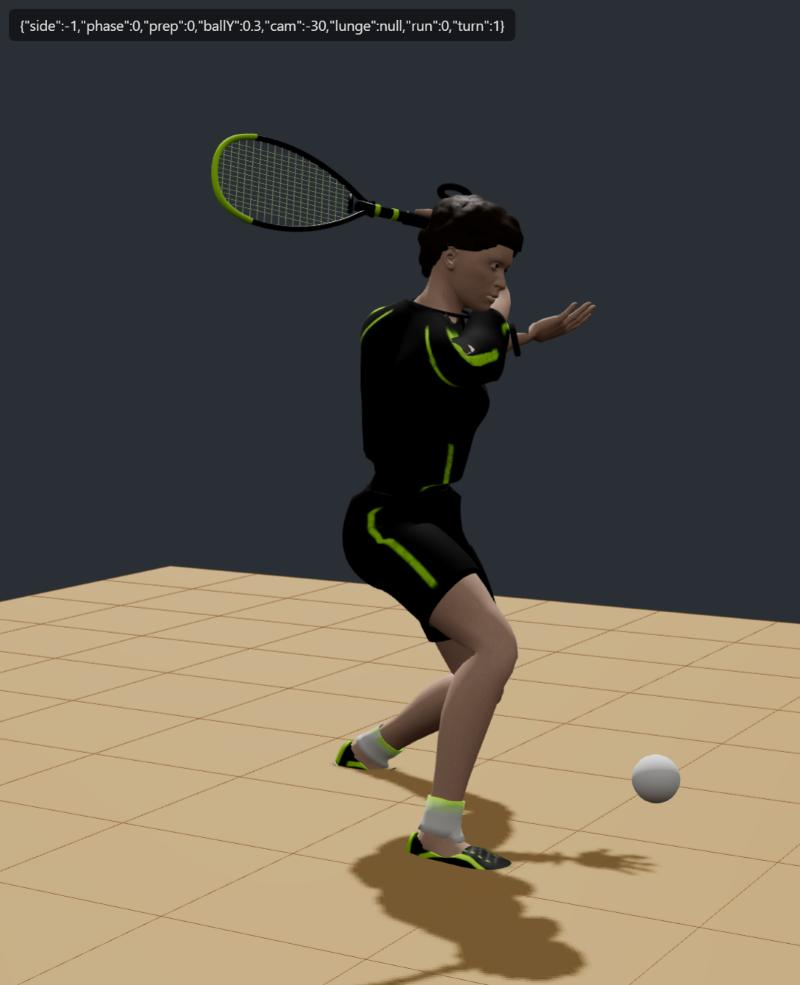
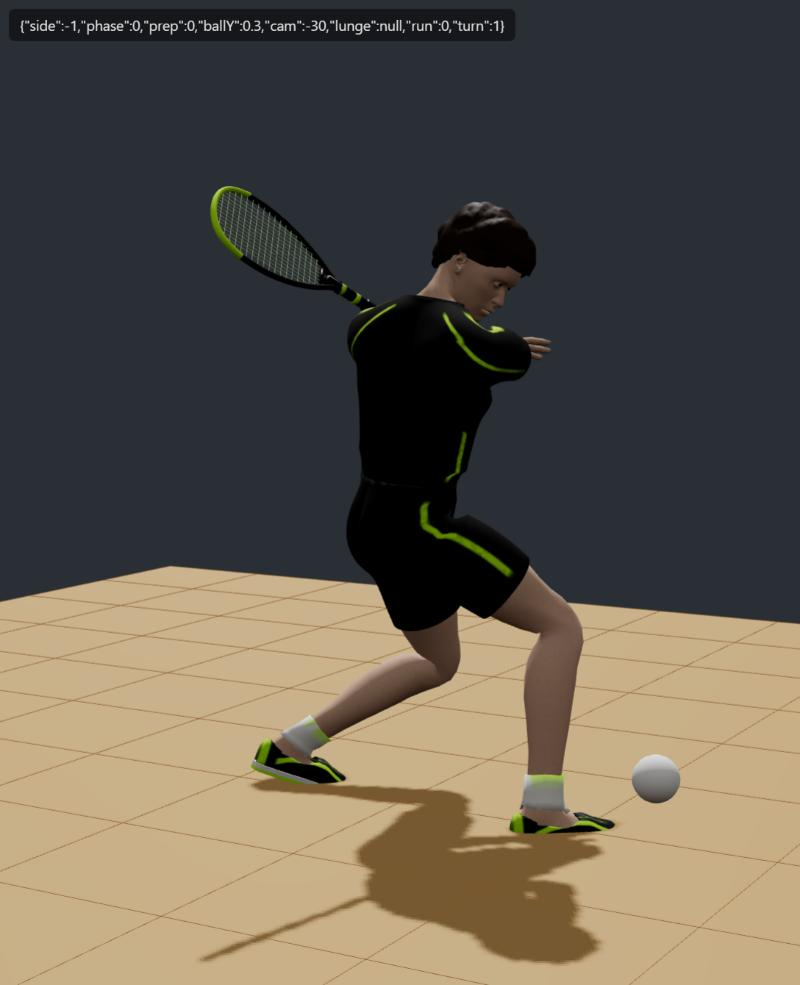
Pose review fixes: feet on the floor, head on the ball, backhand prep, stable palms, no wristbands

Changed region(s): [[0.25, 0.1218, 0.8125, 1.0], [0.25, 0.9442, 0.3438, 0.9746]]

diff --git a/src/render3d/player3d.js b/src/render3d/player3d.js
@@ -46,9 +46,9 @@ const STANCE_HALF = 0.14;
 /**
  * Default rig dimensions (m): the procedural body. A skinned character
  * passes its own bone lengths so the leg IK plants its feet correctly.
- * @typedef {{hipX:number, hipsY:number, thigh:number, shin:number, ankle:number}} RigDims
+ * @typedef {{hipX:number, hipsY:number, thigh:number, shin:number, ankle:number, toeLen:number}} RigDims
  */
-export const DEFAULT_DIMS = Object.freeze({ hipX: 0.1, hipsY: 0.95, thigh: THIGH, shin: SHIN, ankle: 0.035 });
+export const DEFAULT_DIMS = Object.freeze({ hipX: 0.1, hipsY: 0.95, thigh: THIGH, shin: SHIN, ankle: 0.035, toeLen: 0.12 });
 
 /**
  * Stroke keyframes (forehand, right-handed). Torso yaw frame: x right, y up,
@@ -77,15 +77,16 @@ function mirror(k) {
   const prep = k.t === 0;
   return {
     t: k.t,
-    // Preparation (backhand frames): body faces the left wall, elbow bent across the chest at
-    // shoulder height, racket head up and back behind the head, free arm bent in front.
-    E: prep ? v3(-0.6, 0.3, -0.62) : m(k.E),
-    W: prep ? v3(-0.35, 0.8, 0.22) : m(k.W),
-    R: prep ? v3(-0.1, 0.3, 0.95) : m(k.R),
-    N: prep ? v3(0.75, 0.2, -0.6) : m(k.N),
+    // Preparation (backhand frames): hips turned 135° toward the left wall (45° past side-on) with
+    // the shoulders a little further, elbow pointing at the front wall across the chest, racket
+    // hand beside the left shoulder clear of the head, racket head up and back, free arm in front.
+    E: prep ? v3(-0.45, -0.12, -0.88) : m(k.E),
+    W: prep ? v3(-0.85, -0.05, 0.5) : m(k.W),
+    R: prep ? v3(-0.25, 0.5, 0.85) : m(k.R),
+    N: prep ? v3(0.8, 0.3, -0.4) : m(k.N),
     LE: prep ? v3(-0.5, -0.5, -0.7) : m(k.LE),
     LW: prep ? v3(0.4, 0.2, -0.85) : m(k.LW),
-    yaw: -k.yaw, shoulders: prep ? 1.07 : -k.shoulders, pitch: k.pitch, drop: k.drop, wide: k.wide, knee: k.knee, step: k.step,
+    yaw: prep ? 2.36 : -k.yaw, shoulders: prep ? 0.55 : -k.shoulders, pitch: k.pitch, drop: k.drop, wide: k.wide, knee: k.knee, step: k.step,
   };
 }
 const BACKHAND = FOREHAND.map(mirror);
@@ -158,6 +159,7 @@ export class PlayerModel {
 
     this._q = new THREE.Quaternion();
     this._q2 = new THREE.Quaternion();
+    this._wr = new THREE.Vector3();
     this._m = new THREE.Matrix4();
     this._x = new THREE.Vector3();
     this._y = new THREE.Vector3();
@@ -183,7 +185,14 @@ export class PlayerModel {
     const ax = this._ax;
     E = this._e.copy(E).applyAxisAngle(ax, pitch);
     W = this._w.copy(W).applyAxisAngle(ax, pitch);
-    if (R) { R = this._r.copy(R).applyAxisAngle(ax, pitch); N = this._n.copy(N).applyAxisAngle(ax, pitch); }
+    if (R) {
+      R = this._r.copy(R).applyAxisAngle(ax, pitch);
+      N = this._n.copy(N).applyAxisAngle(ax, pitch);
+      // The strings are the same on both faces, but the palm is not: a right hand holding the racket
+      // has its palm on the side of -(forearm x racket), so keep N (the palm side) there and never
+      // let a keyframe turn the hand over.
+      if (this._wr.crossVectors(W, R).dot(N) > 0) N.negate();
+    }
     const qS = this._dirQuat(E, arm.shoulder.quaternion);
     const qW = this._dirQuat(W, this._q);
     arm.elbow.quaternion.copy(qS).invert().multiply(qW);
@@ -411,11 +420,23 @@ export class PlayerModel {
     this.torso.rotation.y = pose.shoulders;
     this.torso.rotation.x = -(pose.pitch + fwd * 0.2 + bwd * 0.05 + lunge * 0.12 + lowBall * 0.2);
     this.torso.rotation.z = -lat * 0.18 - this.lungeX * lunge * 0.15;
-    this.head.rotation.x = -this.torso.rotation.x * 0.85 - (ball.inPlay ? 0.4 * clamp((1.3 - h), 0, 1) : 0);
-    // Eyes on the ball when it is ours; while waiting on the T, watch the opponent to read the shot.
+    // Eyes on the ball when it is ours, before and through the stroke; while waiting on the T, watch the
+    // opponent to read the shot. Yaw then pitch from the eyes toward the target (the eyes do the rest).
+    this.head.rotation.order = 'YXZ';
     const watch = ball.inPlay && !myTurn && opponent && swingT < 0 ? opponent : ball;
-    const lookYaw = Math.atan2(-(watch.x - p.x), -(watch.z - p.z) || 0.01);
-    this.head.rotation.y = ball.inPlay ? clamp(lookYaw * (watch === ball ? 0.5 : 0.85) - this.facing - this.torso.rotation.y, -1.0, 1.0) : 0;
+    if (ball.inPlay) {
+      const dx = watch.x - p.x, dz = watch.z - p.z;
+      const eyeY = this.hips.position.y + 0.62;
+      const dy = watch === ball ? ball.y - eyeY : 0;
+      const horiz = Math.hypot(dx, dz) || 0.01;
+      let relYaw = Math.atan2(-dx, -dz) - this.facing - this.torso.rotation.y;
+      relYaw = Math.atan2(Math.sin(relYaw), Math.cos(relYaw));
+      this.head.rotation.y = clamp(relYaw * (watch === ball ? 0.9 : 0.85), -1.25, 1.25);
+      this.head.rotation.x = clamp(-this.torso.rotation.x * 0.85 + Math.atan2(dy, horiz) * 0.9, -0.95, 0.6);
+    } else {
+      this.head.rotation.y = 0;
+      this.head.rotation.x = -this.torso.rotation.x * 0.85;
+    }
 
     // ------------------------------------------------ legs (IK to the feet)
     const cosF = Math.cos(this.facing), sinF = Math.sin(this.facing);
@@ -427,11 +448,12 @@ export class PlayerModel {
       const localX = wx * cosF - wz * sinF;
       const localZ = wx * sinF + wz * cosF;
       const hipLocal = this._e.set(leg.side * this.dims.hipX, this.hips.position.y, 0);
-      const footLocal = this._w.set(localX, ft.pos.y + this.dims.ankle, localZ);
       // Toes down while the foot swings; back heel up in a stroke stance.
       const frontFoot = leg.side === -strokeSide;
       let toe = ft.swing >= 0 ? 0.35 * Math.sin(Math.PI * ft.swing) : 0;
       if (!frontFoot && (pose.step > 0.3 || lunge > 0.3)) toe += 0.45 * Math.max(pose.step, lunge);
+      // The foot pivots about the ankle, so a lifted heel raises the ankle by the toe lever; the toes stay on the floor.
+      const footLocal = this._w.set(localX, ft.pos.y + this.dims.ankle + this.dims.toeLen * Math.sin(toe), localZ);
       this._poseLeg(leg, hipLocal, footLocal, toe);
     }
 

diff --git a/src/render3d/skinned-player.js b/src/render3d/skinned-player.js
@@ -136,6 +136,7 @@ export class SkinnedPlayer {
     const thigh = P.LeftUpLeg.distanceTo(P.LeftLeg);
     const shin = P.LeftLeg.distanceTo(P.LeftFoot);
     const ankle = P.LeftFoot.y - Math.min(P.LeftToeBase.y, 0);
+    const toeLen = Math.hypot(P.LeftToeBase.x - P.LeftFoot.x, P.LeftToeBase.z - P.LeftFoot.z);
     const hipX = Math.abs(P.LeftUpLeg.x);
     const hipsY = P.Hips.y;
     // Rest facing: left is from the right hip to the left hip, forward = left x up.
@@ -144,7 +145,7 @@ export class SkinnedPlayer {
     this.fwdRest = FWD_REST;
 
     // Invisible solver with this character's leg geometry.
-    this.solver = new PlayerModel(color, look, { thigh, shin, ankle, hipX, hipsY });
+    this.solver = new PlayerModel(color, look, { thigh, shin, ankle, toeLen, hipX, hipsY });
     this.solver.root.visible = false;
 
     // Rest frames: direction (bone -> child) and bend axis / normal in the rest pose.
@@ -322,6 +323,7 @@ export class SkinnedPlayer {
 
     // Arms: direction = pivot -y; bend axis = cross(upper, fore), fallback perpendicular to the arm in the forward plane.
     const fwdW = new THREE.Vector3(0, 0, -1).applyQuaternion(s.root.quaternion);
+    const torsoWorld = s.torso.getWorldQuaternion(new THREE.Quaternion());
     for (const [i, side, restAxisSign] of [[0, 'Left', -1], [1, 'Right', 1]]) {
       const arm = s.arms[i];
       const dU = new THREE.Vector3(0, -1, 0).applyQuaternion(arm.shoulder.getWorldQuaternion(new THREE.Quaternion()));
@@ -335,12 +337,20 @@ export class SkinnedPlayer {
       // Hand. Racket hand: the handle (solver hand -y, toward the racket head) runs across the
       // palm at GRIP_ANGLE from the knuckle line (squash grip: the V between thumb and index on
       // the top bevel, butt outside the heel of the hand) and the strings face the palm (solver
-      // hand +z). Free hand: fingers continue the forearm, palm facing the solver's -z.
+      // hand +z). Free hand: fingers continue the forearm, palm facing down and toward the body.
       const qH = arm.hand.getWorldQuaternion(new THREE.Quaternion());
       const R = new THREE.Vector3(0, -1, 0).applyQuaternion(qH);
       const N = new THREE.Vector3(0, 0, 1).applyQuaternion(qH);
       const palm = this.palm[side];
-      const Np = side === 'Right' ? N : N.clone().negate();
+      // Free hand: the palm faces down and toward the body, whatever the solver's elbow frame does.
+      let Np = N;
+      if (side !== 'Right') {
+        const bodyRight = new THREE.Vector3(1, 0, 0).applyQuaternion(torsoWorld);
+        Np = new THREE.Vector3(0, -1, 0).addScaledVector(bodyRight, 0.7);
+        Np.addScaledVector(R, -Np.dot(R));
+        if (Np.lengthSq() < 1e-4) Np.copy(bodyRight).addScaledVector(R, -bodyRight.dot(R));
+        Np.normalize();
+      }
       const e2 = new THREE.Vector3().crossVectors(R, Np).multiplyScalar(palm.s);   // across the handle, in the palm plane
       const a = side === 'Right' ? GRIP_ANGLE : Math.PI / 2;
       const dH = new THREE.Vector3().addScaledVector(R, Math.sin(a)).addScaledVector(e2, Math.cos(a)).normalize();

diff --git a/CHANGELOG.md b/CHANGELOG.md
@@ -21,6 +21,19 @@ All notable changes to this project are documented here. The format follows
   orientations are read from the file. Procedural bodies remain the fallback. Pose viewer
   `model=1` shows the rigged character.
 
+### Changed (pose review, 2026-10-27)
+- A lifted heel raises the ankle by the toe lever, so feet no longer sink
+  into the floor in stroke stances and steps.
+- The head looks at the ball (yaw and pitch) before and through the stroke;
+  on the T it keeps watching the opponent.
+- Backhand preparation: hips turned 135° toward the wall, racket hand beside
+  the left shoulder clear of the head, elbow pointing at the front wall.
+- The racket hand's palm always stays on its natural side (-(forearm x
+  racket)); the free hand's palm faces down and toward the body, so hands no
+  longer flip between keyframes.
+- Wristbands removed from the character. Keyframe renders in
+  `docs/design/keyframes` for pose review.
+
 ### Changed (character v2)
 - Real squash grip: the fingers are posed in Blender around the handle, which
   runs diagonally across the palm (18° above the knuckle line) with the thumb

diff --git a/docs/design/character-brief.md b/docs/design/character-brief.md
@@ -20,7 +20,7 @@ sheet (`player-concept.svg`) is superseded by it where they differ.
 | Shirt | Fitted short-sleeve athletic tee, black, with lime-yellow seam piping on the shoulders/sides and a small lime logo on the chest. Slightly heathered/worn texture. |
 | Shorts | Black, above the knee, lime side stripe and small logo. |
 | Headband | Black with a lime logo, worn low on the forehead. |
-| Wristbands | Black, both wrists. |
+| Wristbands | None (removed at the owner's request, 2026-10-27). |
 | Socks | White crew socks. |
 | Shoes | Black court shoes with lime accents and a lime/white sole. |
 
